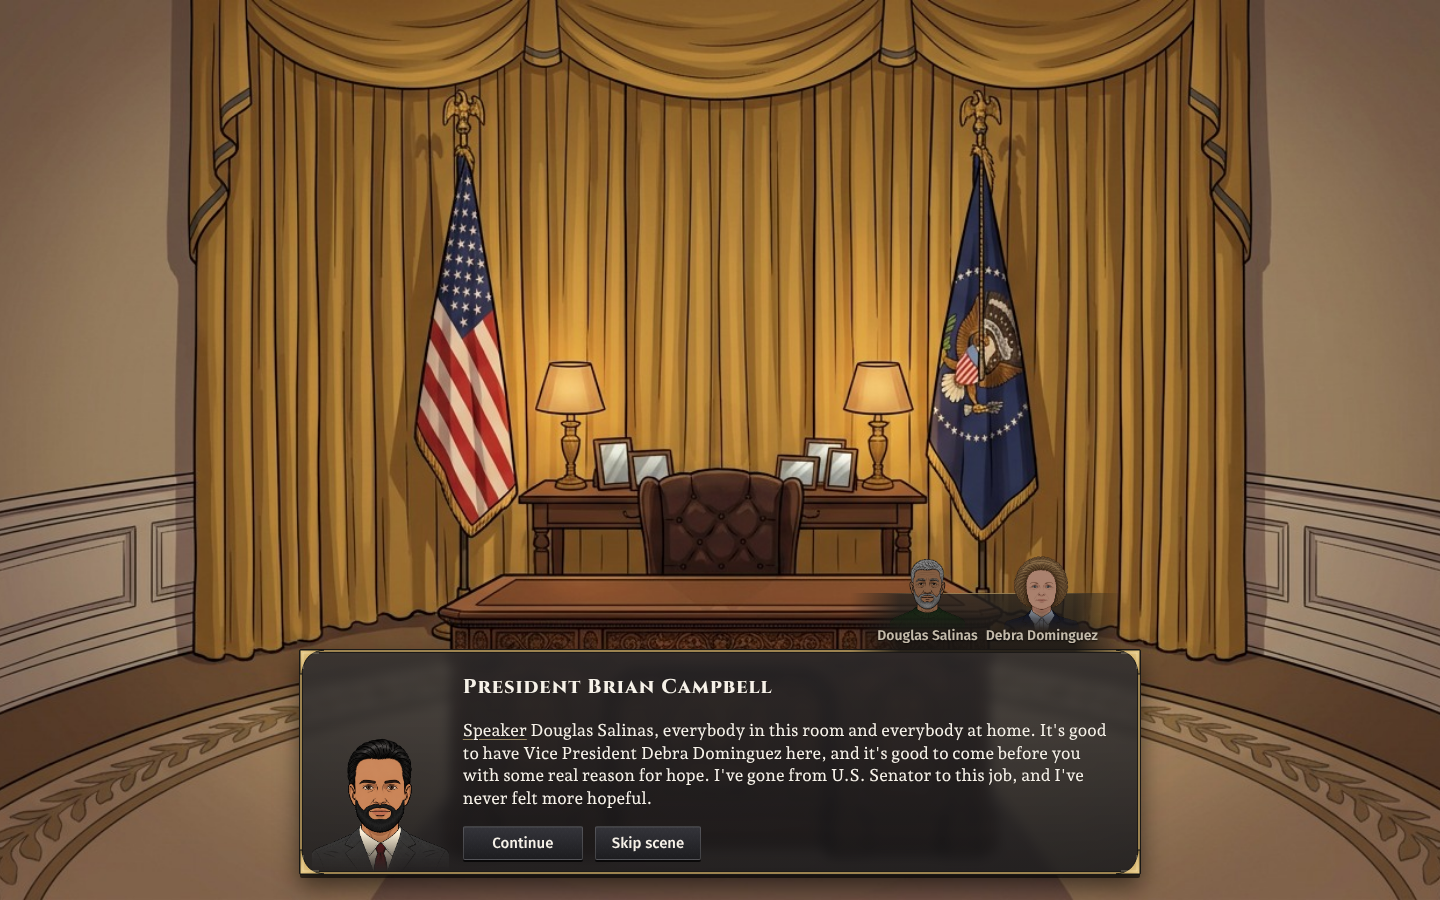
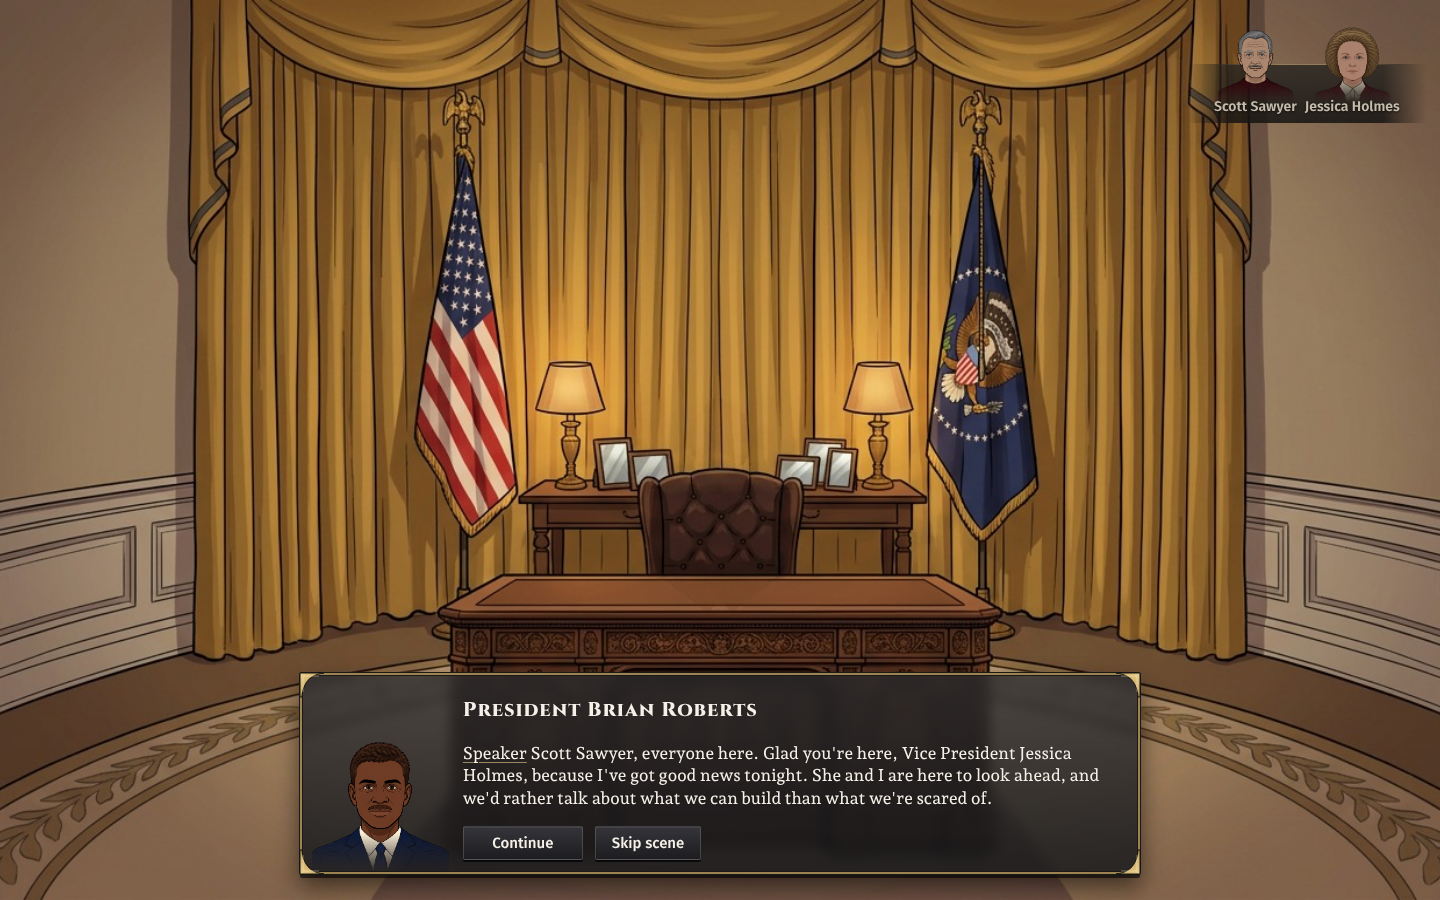
Talk: the quiet people sit tight in the screen's top corner (speaker README, C)
His pick, 'the design of a but the people in the top tight like c': the
speaker stays on the card; the quiet people leave the card's edge for the
screen's top corner. The check fails if they sit anywhere else.

Claude-Session: https://claude.ai/code/session_01S4WSHrQq6hFKHG4vEC5DwH

Changed region(s): [[0.1875, 0.6222, 0.8125, 0.9022], [0.8125, 0.0311, 1.0, 0.1556], [0.2188, 0.8089, 0.3125, 0.9644]]

diff --git a/src/bench/play.css b/src/bench/play.css
@@ -128,6 +128,7 @@
   /* The talk card's width (the speaker mock, layout A). */
   --talk-width: 840px;
   --talk-strip-inset: 14px;
+  --talk-strip-top: 24px;
   --talk-quiet-gap: 8px;
   /* A television's frame around a speaker heard on one. */
   --tv-corner: 10px;
@@ -447,15 +448,20 @@ ol {
 #game:has(#person:not([hidden])) #here {
   visibility: hidden;
 }
-/* A talk's people (owner, Nov 16). Everyone who is not speaking sits small on
-   the card's top edge, packed tight, in a band only as wide as they are: one
-   person never gets a band across the card. */
+/* A talk's people (owner, Nov 16: "the design of a but the people in the top
+   tight like c"; docs/mocks/2026-11-16-speaker). Everyone who is not speaking
+   sits small in the screen's top corner, packed tight, in a band only as wide
+   as they are: one person never gets a band across the screen. */
 #talk-strip {
   position: absolute;
+  top: var(--talk-strip-top);
   right: var(--talk-strip-inset);
-  bottom: 100%;
   width: max-content;
   max-width: calc(100% - 2 * var(--talk-strip-inset));
+}
+#game:has(#talk[hidden]) #talk-strip,
+#game:has(#person:not([hidden])) #talk-strip {
+  display: none;
 }
 #talk-strip .bust-strip {
   --bust: var(--talk-quiet-bust);

diff --git a/src/bench/play.html b/src/bench/play.html
@@ -471,7 +471,6 @@
       </section>
 
       <section id="talk" class="panel chat" hidden>
-        <div id="talk-strip"></div>
         <div id="talk-speaker"></div>
         <button id="talk-lie" class="lie-scales" type="button">
           <svg viewBox="0 0 24 24">
@@ -511,6 +510,8 @@
           <button id="talk-leave" class="action" type="button">Leave</button>
         </div>
       </section>
+      <!-- The talk's quiet people, in the screen's top corner (Nov 16 speaker mock). -->
+      <div id="talk-strip"></div>
 
       <section
         id="person"
